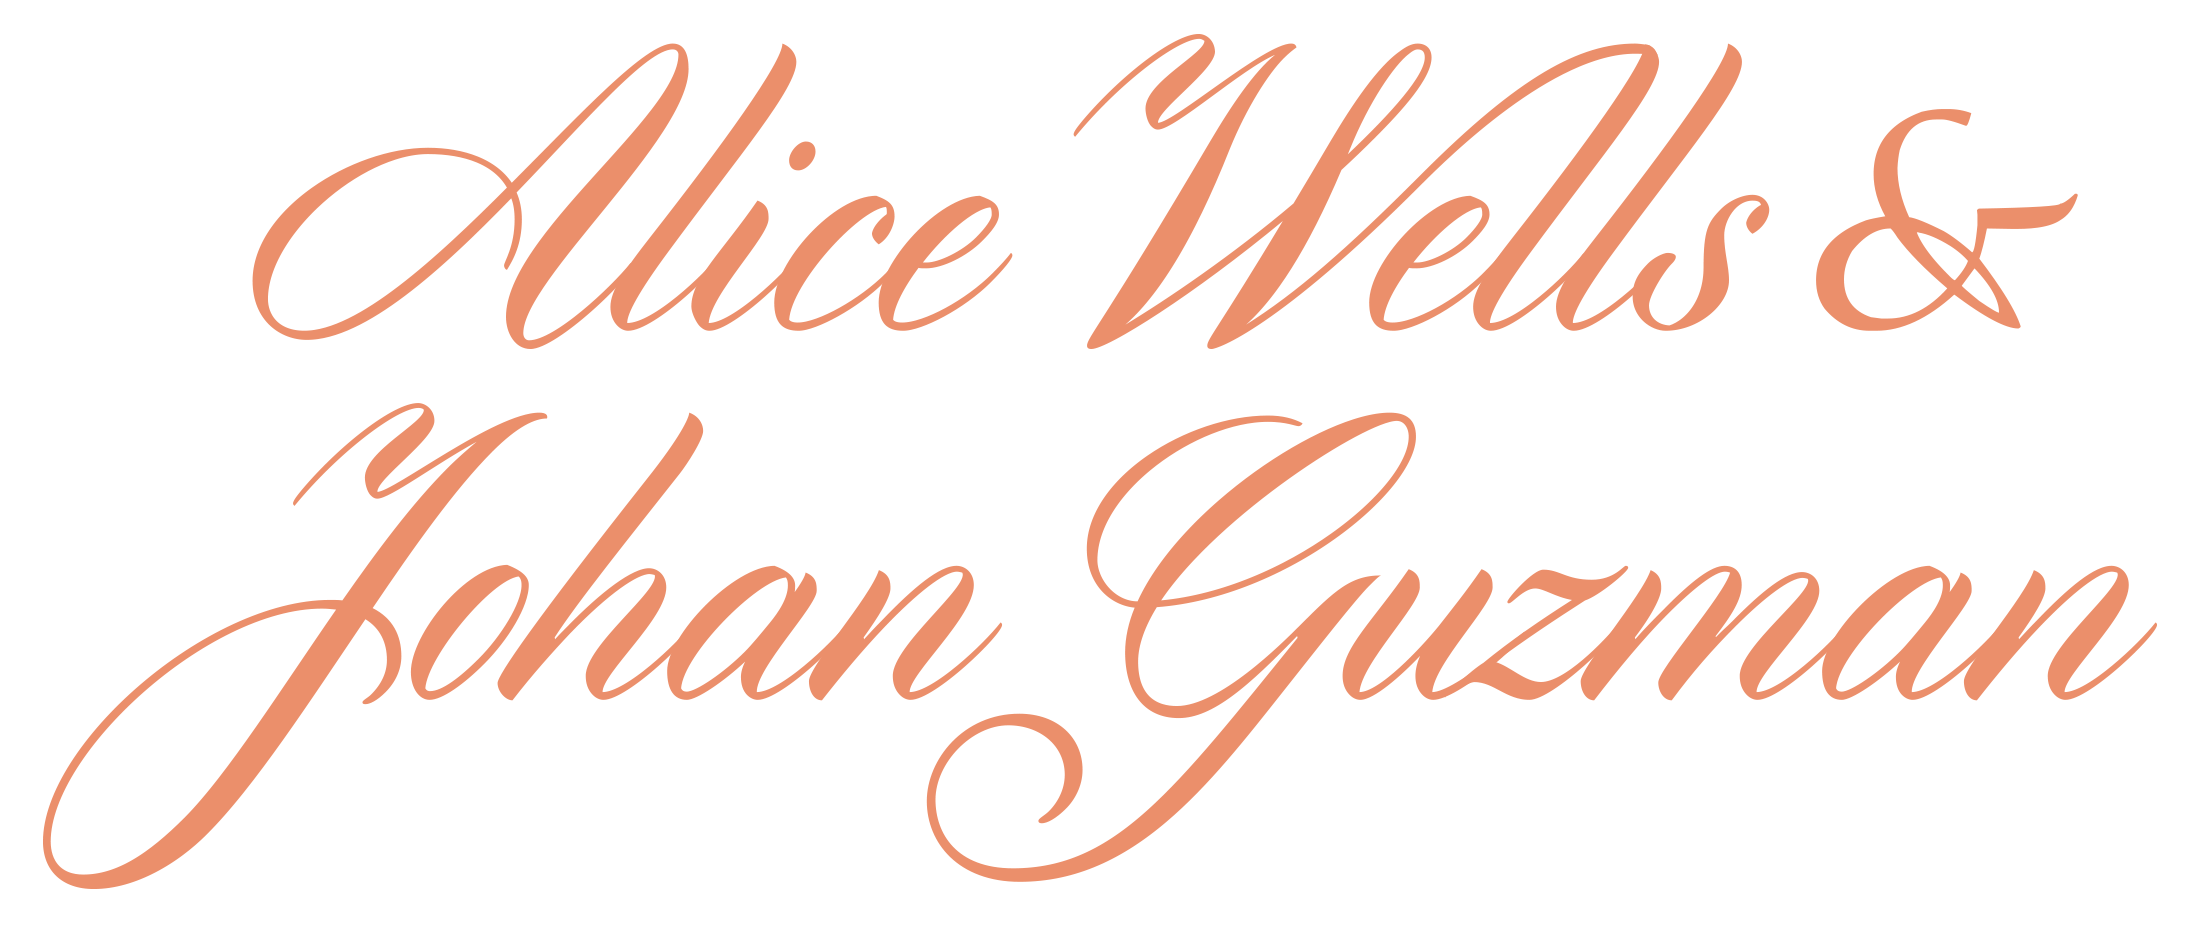
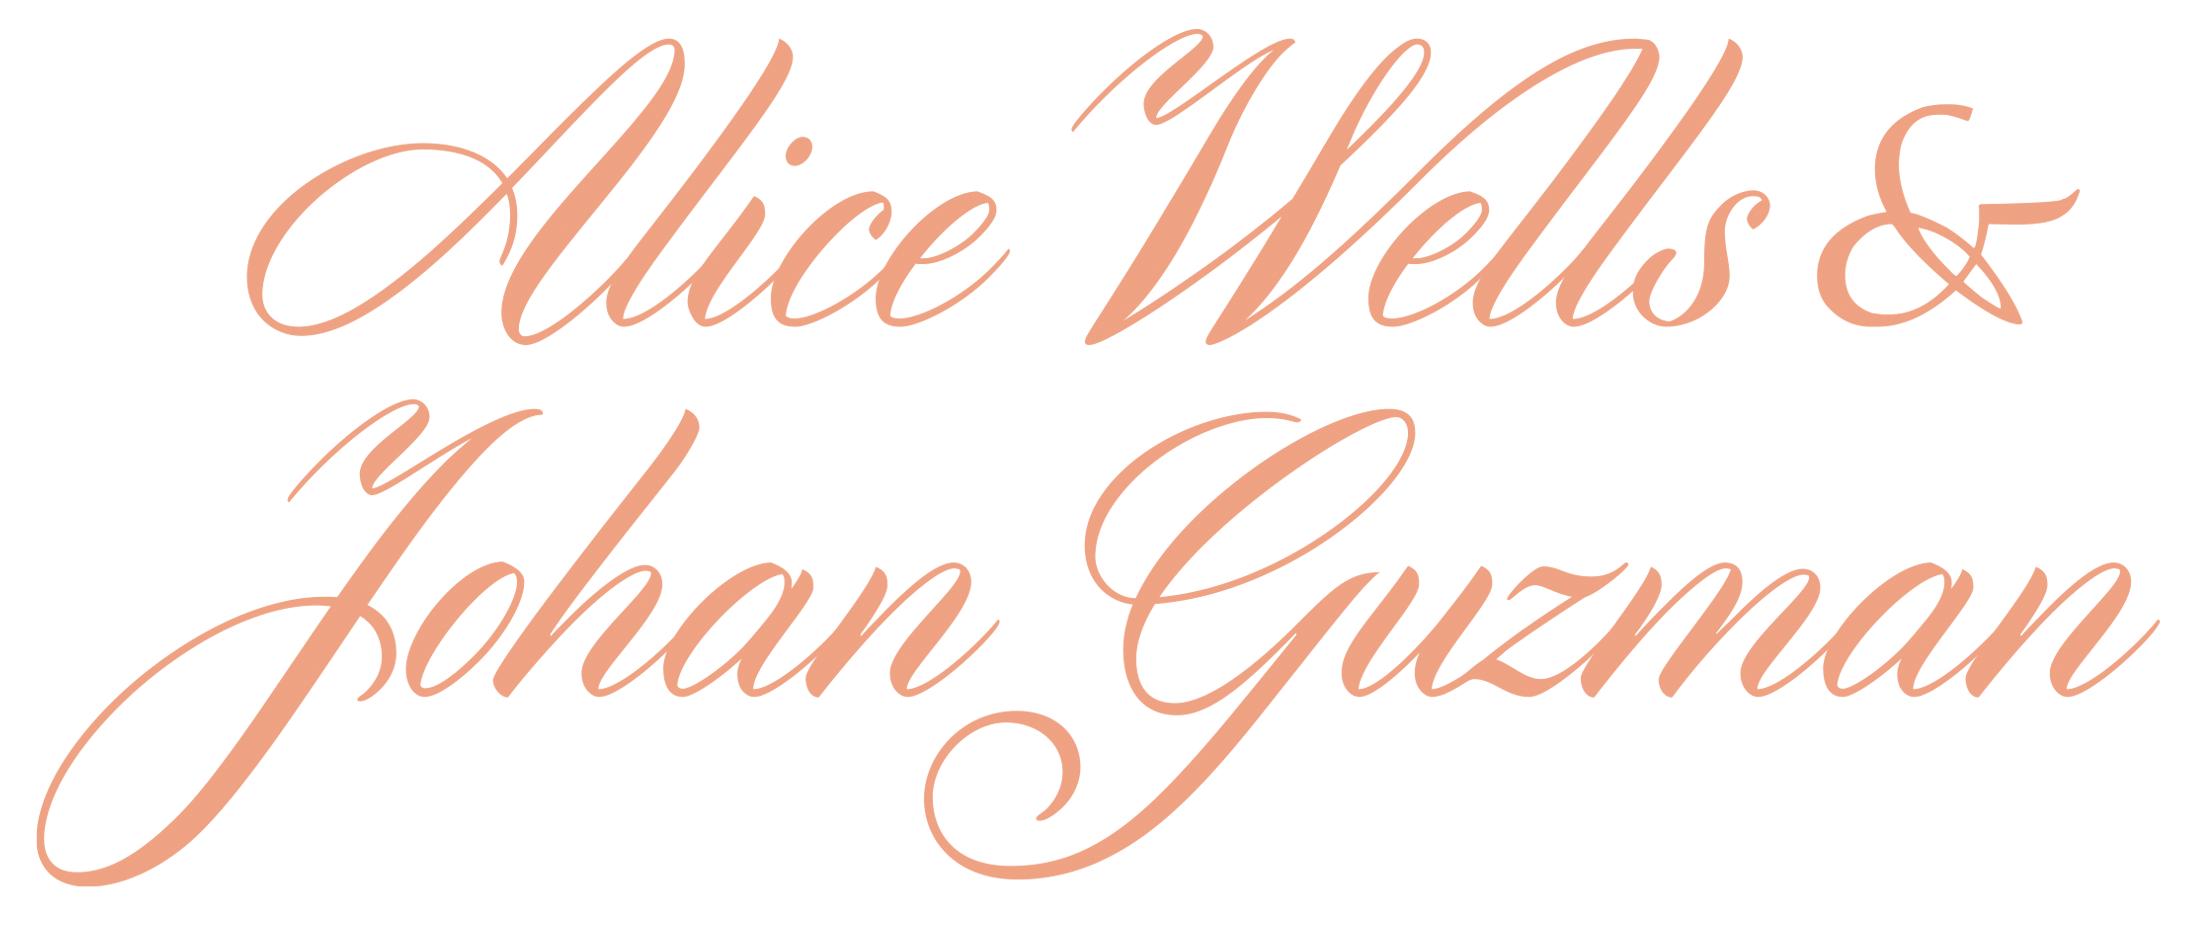
added horse shoe image and changed main salmon color

diff --git a/index.html b/index.html
@@ -148,10 +148,18 @@
                 <div class="col-10 col-xl-4 col-md-8 col-lg-5 col-sm-9">
                     <p class="travelInfoText" >
                         More information on weekend events and a formal invite to come. In the meantime, drop us a line with any questions. Can’t wait to celebrate with you!
-
-                        <br><a href = "mailto:alicekwells@gmail.com">alicekwells@gmail.com</a> / <a href = "mailto:johanguz@gmail.com">johanguz@gmail.com</a> 
                     </p>
-                    </div></div>          
+                    <div class="text-center">
+                       <a href = "mailto:alicekwells@gmail.com">alicekwells@gmail.com</a> / <a href = "mailto:johanguz@gmail.com">johanguz@gmail.com</a> 
+                       
+                    </div>
+                </div>
+            
+            </div>  
+            <div class="row p-5 justify-content-center">
+                    <img class="img-fluid" src="./img/horseshoe.png" alt="horse shoe">
+                </div></div>
+            </div>        
 
         </div>
     <script src="app.js"></script>
